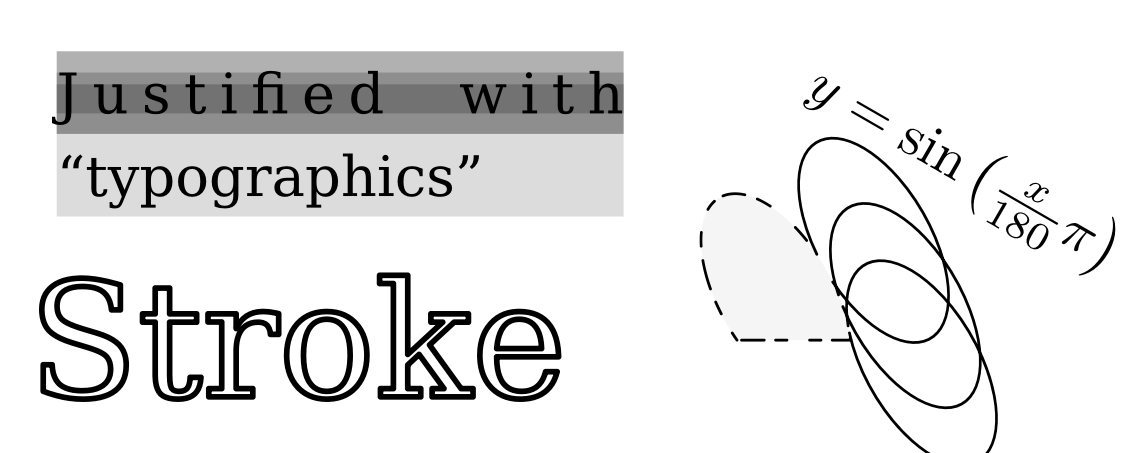
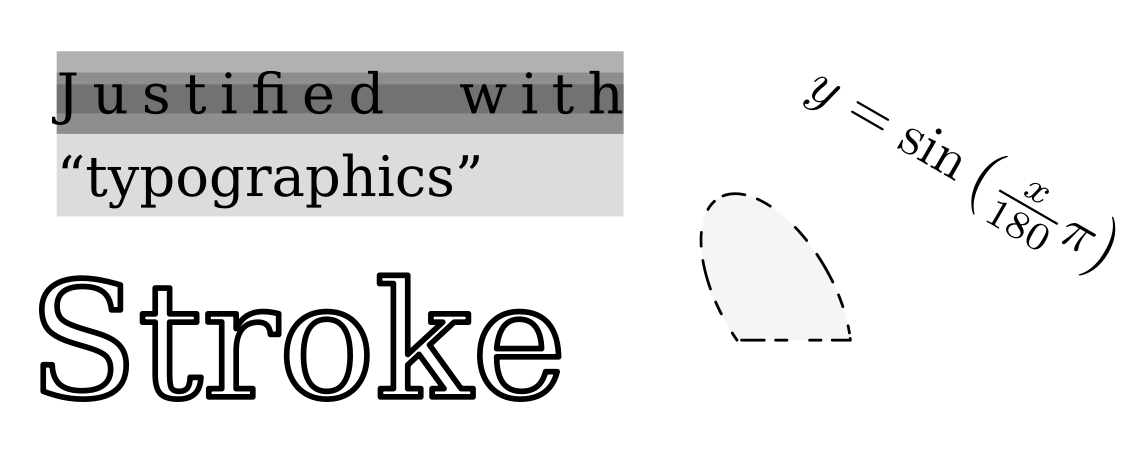
Fix largeArc for ellipse splitting

diff --git a/path.go b/path.go
@@ -759,23 +759,26 @@ func (p *Path) SplitAt(ts ...float64) []*Path {
 				if j == len(ts) {
 					q.ArcTo(rx, ry, phi*180.0/math.Pi, largeArc, sweep, end.X, end.Y)
 				} else {
-					var theta float64
 					dT := ellipseLength(rx, ry, theta1, theta2)
+					startTheta := theta1
+					nextLargeArc := largeArc
 					for j < len(ts) && T < ts[j] && ts[j] <= T+dT {
 						tpos := (ts[j] - T) / dT
-						theta = L(tpos)
-						mid, _, _, ok := splitEllipse(rx, ry, phi, cx, cy, theta1, theta2, theta)
+						theta := L(tpos)
+						mid, largeArc1, largeArc2, ok := splitEllipse(rx, ry, phi, cx, cy, startTheta, theta2, theta)
 						if !ok {
 							panic("theta not in elliptic arc range for splitting")
 						}
 
-						q.ArcTo(rx, ry, phi*180.0/math.Pi, math.Abs(theta-theta1) > math.Pi, sweep, mid.X, mid.Y)
+						q.ArcTo(rx, ry, phi*180.0/math.Pi, largeArc1, sweep, mid.X, mid.Y)
 						push()
 						q.MoveTo(mid.X, mid.Y)
+						startTheta = theta
+						nextLargeArc = largeArc2
 						j++
 					}
-					if !equal(theta, theta2) {
-						q.ArcTo(rx, ry, phi*180.0/math.Pi, math.Abs(theta-theta2) > math.Pi, sweep, end.X, end.Y)
+					if !equal(startTheta, theta2) {
+						q.ArcTo(rx, ry, phi*180.0/math.Pi, nextLargeArc, sweep, end.X, end.Y)
 					}
 					T += dT
 				}

diff --git a/path_util.go b/path_util.go
@@ -122,19 +122,13 @@ func gaussLegendre7(f func(float64) float64, a, b float64) float64 {
 //	}
 //}
 
-// polynomialApprox3 returns a function L(t) that maps the parameter t [0,1] to the curve length between [tmin,tmax],
+// polynomialApprox3 returns a function L(t) that maps the parameter t [0,1] to the integral of speed over [tmin, tmax]. For a circle tmin and tmax would be 0 and 2PI respectively for example.
 // Implemented using M. Walter, A. Fournier, Approximate Arc Length Parametrization, Anais do IX SIBGRAPHI, p. 143--150, 1996
 // see https://www.visgraf.impa.br/sibgrapi96/trabs/pdf/a14.pdf
 func polynomialApprox3(gaussLegendre gaussLegendreFunc, speed func(float64) float64, tmin, tmax float64) func(float64) float64 {
-	tinc := (tmax - tmin) / 3.0
-	s1 := gaussLegendre(speed, tmin, tmin+1.0*tinc)
-	s2 := gaussLegendre(speed, tmin, tmin+2.0*tinc)
+	s1 := gaussLegendre(speed, tmin, tmin+(tmax-tmin)*1.0/3.0)
+	s2 := gaussLegendre(speed, tmin, tmin+(tmax-tmin)*2.0/3.0)
 	s3 := gaussLegendre(speed, tmin, tmax)
-	if tmax < tmin {
-		s1 = -s1
-		s2 = -s2
-		s3 = -s3
-	}
 
 	// We have three points on the s(t) curve at t0=0, t1=1/3, t2=2/3 and t3=1
 	// now obtain a polynomial that goes through these four points by solving the system of linear equations

diff --git a/example/test.go b/example/test.go
@@ -80,7 +80,8 @@ func Draw(c *canvas.C) {
 	// text := canvas.NewTextBox(ff, "Lorem ipsum dolor sid amet, confiscusar patria est gravus repara sid ipsum. Apare tu garage.", 160.0, 40.0, canvas.Justify, canvas.Justify, 140.0)
 	// c.DrawText(20, 60-ff.Metrics().Ascent, 0.0, text)
 
-	p, _ := canvas.ParseSVG("A40 40 0 1 0 40 -40z")
-	p.Flatten()
-	c.DrawPath(50, 50, 0, p)
+	p, _ := canvas.ParseSVG("A20 20 0 1 0 20 -20")
+	ps := p.SplitAt(31.4)
+	c.DrawPath(50, 40, 0, ps[0])
+	c.DrawPath(50, 40, 0, ps[1])
 }
